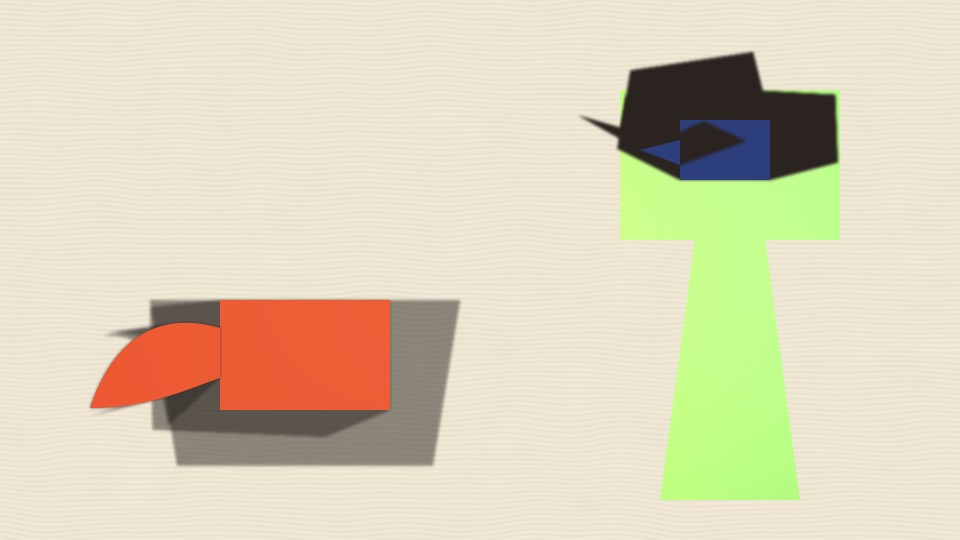
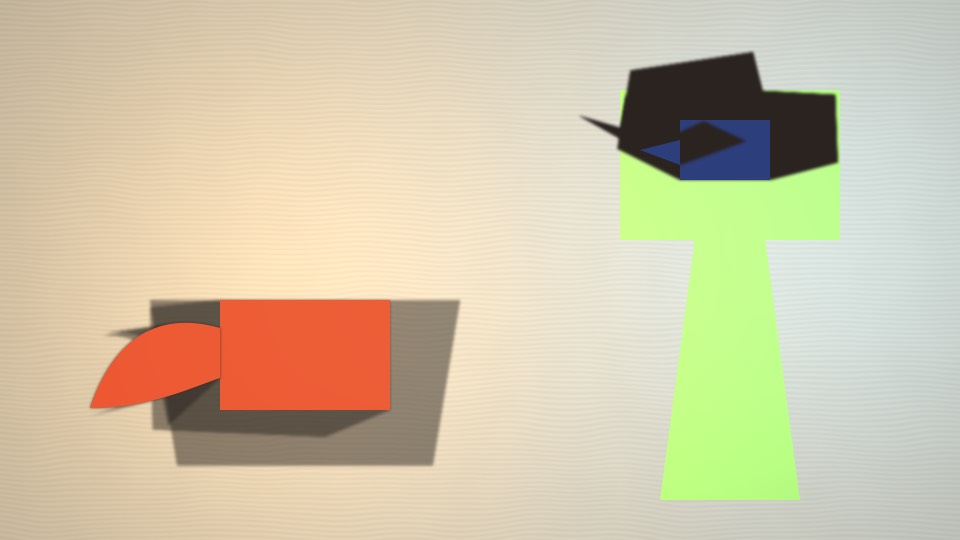
Fix what the #149 pictures showed
A half-size 3D target read the wrong pixels, a wash on a surface sampled a screen blur, hatch tone read the ink's color, craquelure drew blobs, a flick in u thinned 3D lines measured in metres, and a screen wasn't lit by its lamps.

diff --git a/crates/deep-gpu-layer/src/drawn.rs b/crates/deep-gpu-layer/src/drawn.rs
@@ -8,7 +8,7 @@ use std::collections::BTreeMap;
 use std::sync::Arc;
 
 use deep_canvas_drawn::geometry::{direction, seeded};
-use deep_canvas_drawn::medium::{words, Medium};
+use deep_canvas_drawn::medium::{words, Lamp, Medium};
 use deep_canvas_drawn::spec::{Anchor, Look, ReliefFrom, Zoom, TEETH};
 use deep_canvas_drawn::tooth;
 use deep_canvas_marks::drawn::View;
@@ -67,6 +67,8 @@ pub struct Page {
     pub relief: Option<(bool, f64)>,
     /// Each collection's members, which a target and a resist read.
     pub collections: BTreeMap<String, Vec<String>>,
+    /// A backlit screen's lamps this frame, in the page's u.
+    pub lamps: Vec<Lamp>,
 }
 
 fn rgb(palette: &BTreeMap<String, [f64; 3]>, role: &str) -> Result<[f64; 3], Value> {
@@ -224,14 +226,16 @@ impl Page {
                     )
                 })
                 .collect(),
+            lamps: Vec::new(),
         })
     }
 }
 
 impl Page {
-    /// The same paper with this frame's camera.
-    pub fn seen_through(&self, view: Option<&View>) -> Page {
+    /// The same paper with this frame's camera and lamps.
+    pub fn seen_through(&self, view: Option<&View>, lamps: Vec<Lamp>) -> Page {
         let mut page = self.clone();
+        page.lamps = lamps;
         let (scale, offset) = view.copied().unwrap_or(View::NONE).to_world();
         if self.scale_follows {
             (page.scale, page.offset, page.zoom) = (scale, offset, 1.0 / scale);
@@ -422,7 +426,7 @@ impl Drawn {
             mipmap_filter: wgpu::MipmapFilterMode::Linear,
             ..Default::default()
         };
-        let grain = tile(device, [tooth::TILE as u32; 2], tooth::channels(0, 0x5eed));
+        let grain = tile(device, [tooth::TILE as u32; 2], tooth::channels(0x5eed));
         let empty = tile(device, [1, 1], vec![[0.0; 4]]);
         Drawn {
             paper: pipeline("paper", FORMAT),
@@ -697,6 +701,11 @@ impl Drawn {
         for t in &sheet.tape {
             list.push(t.map(f));
         }
+        for lamp in &page.lamps {
+            list.push([f(lamp.at[0]), f(lamp.at[1]), 0.0, 0.0]);
+            list.push(rgb(lamp.color));
+        }
+        w[9][2] = page.lamps.len() as f32;
         w[12] = [
             sheet.folds.len() as u32,
             page.seed,
@@ -987,13 +996,14 @@ impl Drawn {
         frame: &PostFrame<'_>,
         item: u32,
         rim: Option<&Rim3>,
+        scale: f32,
     ) -> wgpu::BindGroup {
         let mut words: Vec<f32> = inverse(&frame.clip).to_vec();
         words.extend([
             frame.eye[0] as f32,
             frame.eye[1] as f32,
             frame.eye[2] as f32,
-            1.0,
+            scale,
         ]);
         words.extend([item, 0, 0, 0].map(f32::from_bits));
         let (t, a, c) = rim.map_or(([0.0; 3], 0.0, [0.0; 3]), |r| (r.toward, r.amount, r.color));
@@ -1060,7 +1070,7 @@ impl Drawn {
             pipeline: copy,
             groups: [
                 base(self, &ground, frame.linear),
-                self.view3(device, frame, 0, None),
+                self.view3(device, frame, 0, None, 1.0),
             ],
             into: out.clone(),
         }];
@@ -1069,7 +1079,7 @@ impl Drawn {
                 pipeline: paper3,
                 groups: [
                     base(self, &ground, frame.linear),
-                    self.view3(device, frame, 0, None),
+                    self.view3(device, frame, 0, None, 1.0),
                 ],
                 into: out.clone(),
             });
@@ -1090,7 +1100,7 @@ impl Drawn {
                 pipeline: medium3.clone(),
                 groups: [
                     base(self, &w, frame.linear),
-                    self.view3(device, frame, *id, None),
+                    self.view3(device, frame, *id, None, 1.0),
                 ],
                 into: out.clone(),
             });
@@ -1105,7 +1115,7 @@ impl Drawn {
                 pipeline: medium3.clone(),
                 groups: [
                     base(self, &w, frame.linear),
-                    self.view3(device, frame, *id, Some(rim)),
+                    self.view3(device, frame, *id, Some(rim), 1.0),
                 ],
                 into: out.clone(),
             });
@@ -1123,7 +1133,13 @@ impl Drawn {
                 pipeline: target3.clone(),
                 groups: [
                     base(self, &w, frame.linear),
-                    self.view3(device, frame, *id, None),
+                    self.view3(
+                        device,
+                        frame,
+                        *id,
+                        None,
+                        frame.size[0] as f32 / t.width() as f32,
+                    ),
                 ],
                 into: view,
             });

diff --git a/crates/deep-canvas-scene3d/src/scene.rs b/crates/deep-canvas-scene3d/src/scene.rs
@@ -204,6 +204,8 @@ pub struct Line {
     pub edges: Option<Arc<EdgesOf>>,
     /// Drawn over whatever is in front of it: the planted `edges_skip_depth`'s line.
     pub over: bool,
+    /// Its segments are one drawn line's pieces (#149), so their caps draw no soft edge.
+    pub joined: bool,
 }
 
 /// A mesh-edge line's mesh, its kind and the matrix that places the mesh.
@@ -1062,6 +1064,7 @@ fn line(items: &Items<'_>, id: &str, params: &Value, look: &Look3) -> Result<Lin
         })?,
         _ => None,
     };
+    let written = points.len();
     let (points, along) = match drawn_line.as_ref().and_then(|l| l.profile.as_ref()) {
         Some(p) => profiled_points(&points, p),
         None => {
@@ -1073,13 +1076,18 @@ fn line(items: &Items<'_>, id: &str, params: &Value, look: &Look3) -> Result<Lin
     let base = drawn_line.as_ref().and_then(|l| l.width);
     let widths: Vec<f64> = match params.get("width") {
         None | Some(Value::Null) => along.iter().map(|k| base.unwrap_or(1.5) * k).collect(),
-        Some(Value::Array(w)) if w.len() == n => w
-            .iter()
-            .map(|x| num(Some(x)).filter(|&x| x >= 0.0))
-            .collect::<Option<Vec<_>>>()
-            .map_or_else(|| refused("out_of_range", format!("{path}/width")), Ok)?,
+        Some(Value::Array(w)) if w.len() == written => {
+            let w = w
+                .iter()
+                .map(|x| num(Some(x)).filter(|&x| x >= 0.0))
+                .collect::<Option<Vec<_>>>()
+                .map_or_else(|| refused("out_of_range", format!("{path}/width")), Ok)?;
+            // A profile multiplies each point's own width, at the written point it grew from.
+            let at = |i: usize| i * written.saturating_sub(1) / n.saturating_sub(1).max(1);
+            (0..n).map(|i| w[at(i)] * along[i]).collect()
+        }
         Some(v) => match num(Some(v)).filter(|&x| x >= 0.0) {
-            Some(w) => vec![w; n],
+            Some(w) => along.iter().map(|k| w * k).collect(),
             None => return refused("out_of_range", format!("{path}/width")),
         },
     };
@@ -1107,6 +1115,7 @@ fn line(items: &Items<'_>, id: &str, params: &Value, look: &Look3) -> Result<Lin
         color: paint(look, params, &path)?,
         edges: None,
         over: false,
+        joined: drawn_line.is_some(),
     })
 }
 
@@ -1383,6 +1392,7 @@ fn edge_line(
         color: paint(look, params, &path)?,
         edges: Some(Arc::new(source)),
         over: false,
+        joined: false,
     })
 }
 
@@ -1399,6 +1409,9 @@ fn drawn_light(look: &Look3) -> Option<Sun> {
         cascades: Cascades::default(),
     })
 }
+
+/// The u a drawn look's sizes span on a surface, a metre.
+const U_PER_METER: f64 = 300.0;
 
 /// `points` split finely enough to carry a line profile, with its width multiplier at each.
 fn profiled_points(points: &[Vec3], p: &deep_canvas_drawn::spec::Profile) -> (Vec<Vec3>, Vec<f64>) {
@@ -1417,9 +1430,14 @@ fn profiled_points(points: &[Vec3], p: &deep_canvas_drawn::spec::Profile) -> (Ve
         s.push(s[s.len() - 1] + deep_canvas::ops::hypot(deep_canvas::ops::hypot(d[0], d[1]), d[2]));
     }
     let total = s.last().copied().unwrap_or(0.0).max(1e-9);
+    // A profile's flick is in u, and this line's arc length in metres.
+    let metres = deep_canvas_drawn::spec::Profile {
+        flick: p.flick / U_PER_METER,
+        ..p.clone()
+    };
     let widths = s
         .iter()
-        .map(|at| deep_canvas_drawn::geometry::width_along(p, *at, total))
+        .map(|at| deep_canvas_drawn::geometry::width_along(&metres, *at, total))
         .collect();
     (fine, widths)
 }

diff --git a/crates/deep-gpu-layer/src/film.rs b/crates/deep-gpu-layer/src/film.rs
@@ -24,6 +24,7 @@ use std::collections::BTreeMap;
 use std::sync::{Arc, Mutex};
 use std::time::Instant;
 
+use deep_canvas_drawn::medium::Lamp;
 use deep_canvas_marks::drawn::{self, View};
 use deep_canvas_marks::look::{self, Distance};
 use deep_canvas_marks::scene::{self, Drawn, Palette, Record, Rgb, Type};
@@ -78,9 +79,13 @@ fn marks_at(
     state: &mut State,
     t: i64,
     (palette, ty): &(Palette, Type),
-) -> Result<(Vec<Vec<Arc<Drawn>>>, Rgb, Option<View>), Value> {
+) -> Result<(Vec<Vec<Arc<Drawn>>>, Rgb, Option<View>, Vec<Lamp>), Value> {
     program.evaluate(t, eval::Validity::Full, state);
     let mut items = eval::items(doc, program, state);
+    let lamps = match &ty.drawn {
+        Some(look) => drawn::screen_lamps(look, &items, palette).map_err(|r| refused(r.code, r.path))?,
+        None => Vec::new(),
+    };
     let view = drawn::view_of(doc, &mut items);
     if let Some(v) = &view {
         drawn::through(v, &mut items);
@@ -103,7 +108,7 @@ fn marks_at(
         .iter()
         .map(|l| l.marks.iter().cloned().collect())
         .collect();
-    Ok((layers, frame.ground, view))
+    Ok((layers, frame.ground, view, lamps))
 }
 
 fn hex(c: &image::Rgba<u8>) -> String {
@@ -218,9 +223,10 @@ fn run(app: &mut App, out: &str, call: &Value) -> Result<Value, Value> {
                 .collect(),
         )
     };
-    let (first, ground, view) = marks_at(&doc, &program, &mut state, at(from), &look)?;
+    let (first, ground, view, lamps) = marks_at(&doc, &program, &mut state, at(from), &look)?;
     // The paper's fields hold still; only where the pixels land moves with the camera.
     let page = page_of(&look.1, view.as_ref(), &doc, &roles(&look), call)?;
+    let first_page = page.as_ref().map(|p| Arc::new(p.seen_through(view.as_ref(), lamps)));
 
     app.window(size)?;
     {
@@ -248,7 +254,7 @@ fn run(app: &mut App, out: &str, call: &Value) -> Result<Value, Value> {
             page,
         })
     };
-    let marks: Marks2 = Arc::new(Mutex::new(frame2(first, from, &look, page.clone())));
+    let marks: Marks2 = Arc::new(Mutex::new(frame2(first, from, &look, first_page)));
     let encoded: Encoded = Arc::new(Mutex::new(None));
     let (ui, error) = open2(app, marks.clone(), size, Some(encoded.clone()))?;
     app.window.as_ref().expect("opened").paint.borrow_mut().ui = Some(ui.clone());
@@ -279,8 +285,8 @@ fn run(app: &mut App, out: &str, call: &Value) -> Result<Value, Value> {
                 look = next;
             }
             let started = Instant::now();
-            let (drawn, ground, view) = marks_at(&doc, &program, &mut state, at(n), &look)?;
-            let page = page.as_ref().map(|p| Arc::new(p.seen_through(view.as_ref())));
+            let (drawn, ground, view, lamps) = marks_at(&doc, &program, &mut state, at(n), &look)?;
+            let page = page.as_ref().map(|p| Arc::new(p.seen_through(view.as_ref(), lamps)));
             *marks.lock().unwrap_or_else(|e| e.into_inner()) = frame2(drawn, n, &look, page);
             {
                 let win = app.window.as_ref().expect("opened");

diff --git a/crates/deep-canvas-drawn/src/tooth.rs b/crates/deep-canvas-drawn/src/tooth.rs
@@ -35,6 +35,31 @@ pub fn cells(p: [f64; 2], seed: u32, period: u32) -> f64 {
     nearest.min(1.0)
 }
 
+/// How far a point is from where two cells meet, as the second nearest less the nearest: 0 on a
+/// border, on the same lattice as [`cells`].
+pub fn borders(p: [f64; 2], seed: u32, period: u32) -> f64 {
+    let (ix, iy) = (p[0].floor(), p[1].floor());
+    let wrap = |v: i64| -> u32 { v.rem_euclid(i64::from(period.max(1))) as u32 };
+    let (mut first, mut second) = (f64::MAX, f64::MAX);
+    for dy in -2..=2i64 {
+        for dx in -2..=2i64 {
+            let (cx, cy) = (ix as i64 + dx, iy as i64 + dy);
+            let h = lattice(wrap(cx), wrap(cy), seed);
+            let (jx, jy) = (
+                f64::from(h & 0xffff) / 65536.0,
+                f64::from(h >> 16) / 65536.0,
+            );
+            let d = ops::hypot(cx as f64 + jx - p[0], cy as f64 + jy - p[1]);
+            if d < first {
+                (first, second) = (d, first);
+            } else if d < second {
+                second = d;
+            }
+        }
+    }
+    (second - first).min(1.0)
+}
+
 fn lattice(x: u32, y: u32, seed: u32) -> u32 {
     let mix = |mut v: u32| {
         v = v.wrapping_mul(0x9e37_79b1);
@@ -101,15 +126,15 @@ pub fn tile(kind: u32, seed: u32) -> Vec<f32> {
     stretched(|p| height(kind, p, seed))
 }
 
-/// Four channels a pass reads per texel: the tooth, then a slow noise, cells and a fine noise that
-/// fills read (starving, pinholes, granulation), all repeating with the tile.
-pub fn channels(kind: u32, seed: u32) -> Vec<[f32; 4]> {
-    let tooth = tile(kind, seed);
+/// Four channels a pass reads per texel: cell borders for cracks, then a slow noise, cells and a
+/// fine noise that fills read (starving, pinholes, granulation), all repeating with the tile.
+pub fn channels(seed: u32) -> Vec<[f32; 4]> {
+    let cracks = stretched(|p| borders(p, seed ^ 8, TEETH));
     let slow = stretched(|p| fbm2([p[0] / 4.0, p[1] / 4.0], seed ^ 5, 4, 2.0, 0.5, TEETH / 4));
     let holes = stretched(|p| cells(p, seed ^ 6, TEETH));
     let fine = stretched(|p| fbm2(p, seed ^ 7, 3, 2.0, 0.6, TEETH));
     (0..TILE * TILE)
-        .map(|i| [tooth[i], slow[i], holes[i], fine[i]])
+        .map(|i| [cracks[i], slow[i], holes[i], fine[i]])
         .collect()
 }
 

diff --git a/crates/deep-canvas-marks/src/drawn.rs b/crates/deep-canvas-marks/src/drawn.rs
@@ -355,9 +355,29 @@ fn ramp(palette: &Palette, noise: &spec::Noise, path: &str) -> Result<Vec<[f64; 
 
 /// The lamps of a look's backlit screen, as evaluated at t.
 fn lamps(d: &Dress<'_>, back: &spec::Back) -> Result<Vec<Lamp>, Refused> {
+    lamps_of(back, d.items, d.palette)
+}
+
+/// The lamps of `look`'s backlit screen among `items`; none for a look with no screen.
+pub fn screen_lamps(
+    look: &Look,
+    items: &Map<String, Value>,
+    palette: &Palette,
+) -> Result<Vec<Lamp>, Refused> {
+    match look.light.as_ref().and_then(|l| l.back.as_ref()) {
+        Some(back) => lamps_of(back, items, palette),
+        None => Ok(Vec::new()),
+    }
+}
+
+fn lamps_of(
+    back: &spec::Back,
+    items: &Map<String, Value>,
+    palette: &Palette,
+) -> Result<Vec<Lamp>, Refused> {
     let mut out = Vec::new();
     for id in &back.lamps {
-        let Some(item) = d.items.get(id) else {
+        let Some(item) = items.get(id) else {
             continue;
         };
         let paint = object_or_empty(item.pointer("/params/paint/fill"));
@@ -368,7 +388,7 @@ fn lamps(d: &Dress<'_>, back: &spec::Back) -> Result<Vec<Lamp>, Refused> {
         let path = format!("items/{id}/params/paint/fill/role");
         out.push(Lamp {
             at: center_of(item),
-            color: unit(role_color(d.palette, role, &path)?),
+            color: unit(role_color(palette, role, &path)?),
         });
     }
     Ok(out)

diff --git a/crates/deep-scene3d-render/src/lib.rs b/crates/deep-scene3d-render/src/lib.rs
@@ -4655,7 +4655,8 @@ impl Renderer {
                     // edges it draws don't hide it; one drawn over everything skips depth.
                     flags: u32::from(l.world)
                         | (u32::from(l.edges.is_some()) << 1)
-                        | (u32::from(l.over) << 2),
+                        | (u32::from(l.over) << 2)
+                        | (u32::from(l.joined) << 3),
                     pad: 0,
                 };
                 batch.lines.push(&l.id, bytemuck::bytes_of(&record));
